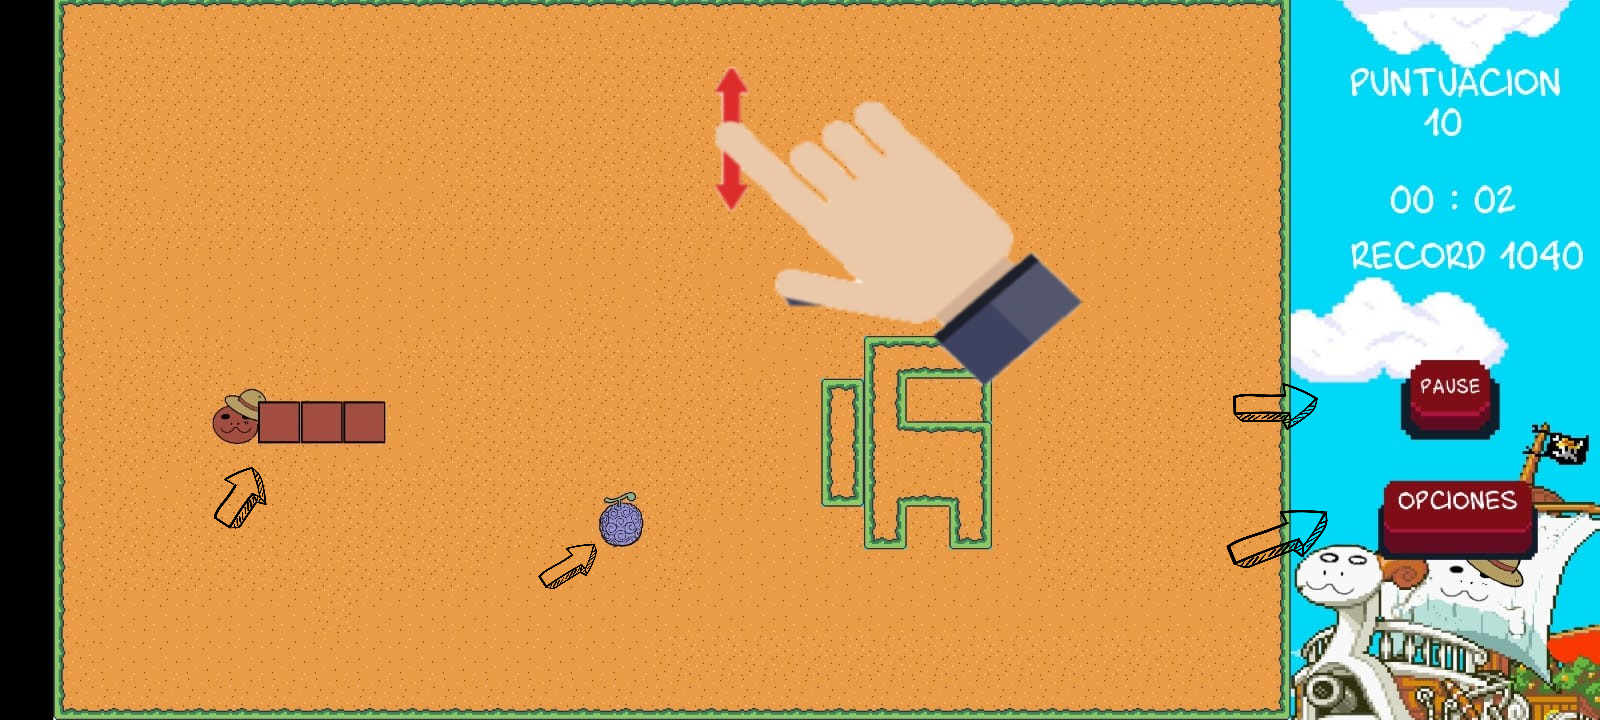
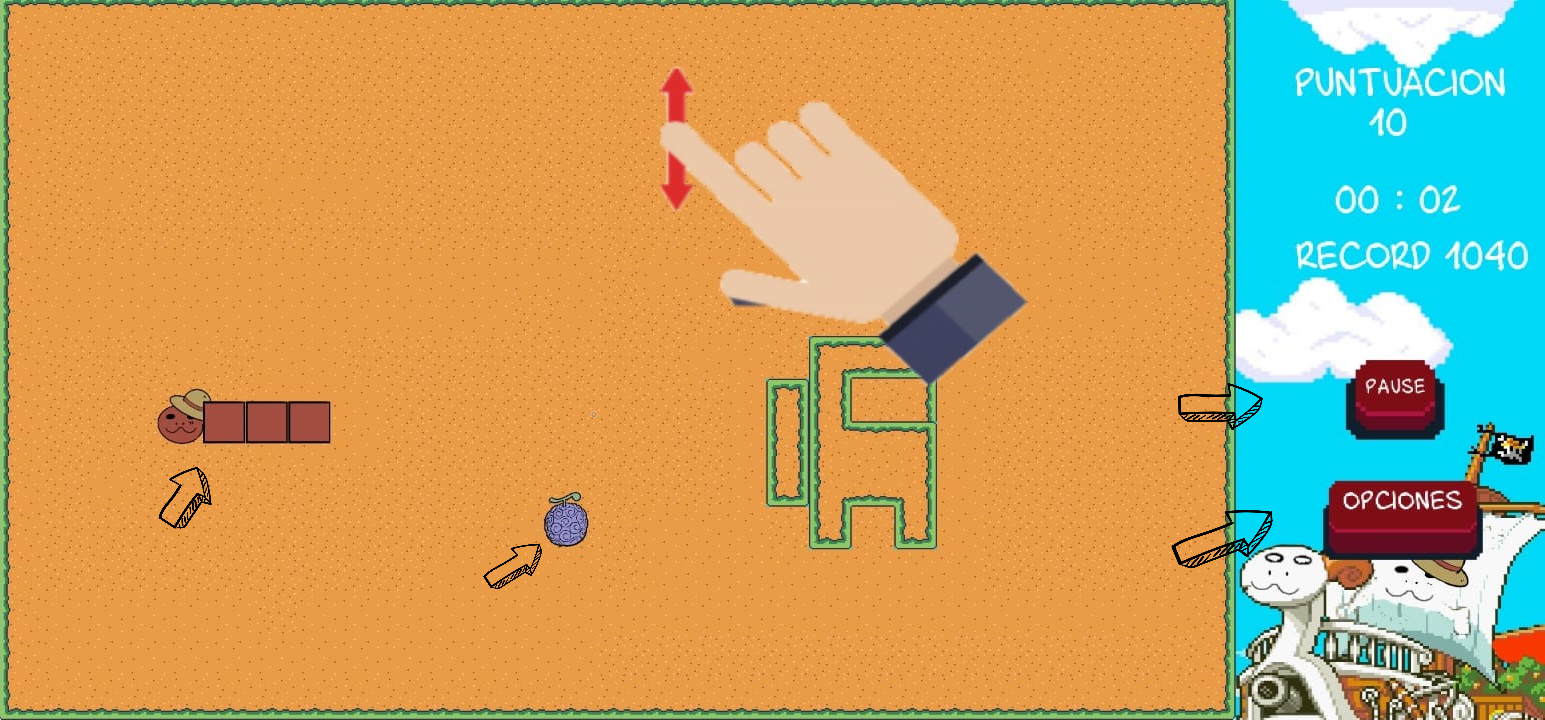
TAMAÑOS ARREGLADO

diff --git a/core/src/Juego/moviles/Jueuito/Screens/MyGdxGame.java b/core/src/Juego/moviles/Jueuito/Screens/MyGdxGame.java
@@ -1,6 +1,8 @@
 package Juego.moviles.Jueuito.Screens;
 
 
+import static Juego.moviles.Jueuito.Constantes.*;
+
 import com.badlogic.gdx.Gdx;
 import com.badlogic.gdx.Input;
 import com.badlogic.gdx.InputMultiplexer;
@@ -103,7 +105,7 @@ public class MyGdxGame implements Screen {
      * para gestionar el movimiento
      */
     boolean crear = false, colision = true;
-    Mapa mapa;
+//    Mapa mapa;
     /**
      * texturas de la serpiente
      */
@@ -153,7 +155,7 @@ public class MyGdxGame implements Screen {
     /**
      * referencia al fondo de pantalla
      */
-    Image fondo;
+    Image fondo, mapa;
 
     /**
      * contructor de la Screen del juego crea e inicializa lo que se ve en pantalla
@@ -168,13 +170,11 @@ public class MyGdxGame implements Screen {
         imagenCabeza = new Texture(Gdx.files.internal("Serpiente/cabeza.png"));
         imagenCuerpo = new Texture(Gdx.files.internal("Serpiente/cuerpo.png"));
 
-        float x = Gdx.graphics.getWidth();
-        float y = Gdx.graphics.getHeight();
 
         camera = new OrthographicCamera();
-        camera.setToOrtho(false, x / 2, y / 2);
+        camera.setToOrtho(false, WORLD_WIDTH, WORLD_HEIGHT);
 
-        v = new ExtendViewport(x / 2, y / 2, camera);
+        v = new ExtendViewport(WORLD_WIDTH, WORLD_HEIGHT, camera);
         stage = new Stage(v);
         world = new World(new Vector2(0, 0), false);
         b2dr = new Box2DDebugRenderer();
@@ -183,12 +183,13 @@ public class MyGdxGame implements Screen {
         skin.add("btnPause", new Texture(Gdx.files.internal("Buttons/BtnPeque.png")));
         skin.add("btnPlay", new Texture(Gdx.files.internal("Buttons/BtnGrande.png")));
         skin.add("Fondo", new Texture(Gdx.files.internal("Fondo/Fondo.png")));
-        fondo = UICrea.createImage(new Vector2(0,0), x /2,y/2,skin,"Fondo",stage);
+        skin.add("Mapa", new Texture(Gdx.files.internal("Fondo/mapa.png")));
 
-        btn = UICrea.createTextButton("Pause", 15, new Vector2(x / 2 - 150, y / 6 + 30), 75, 60, skin, "btnPause", stage, 20);
-        TiledMap tiledMap = new TmxMapLoader().load("Mapa.tmx");
-        tmr = new OrthogonalTiledMapRenderer(tiledMap);
-        mapa = new Mapa(world, tiledMap.getLayers().get("Colisiones").getObjects());
+        fondo = UICrea.createImage(new Vector2(0,0), WORLD_WIDTH, WORLD_HEIGHT,skin,"Fondo",stage);
+        mapa=UICrea.createImage(new Vector2(0,0), WORLD_WIDTH*0.8f, WORLD_HEIGHT,skin,"Mapa",stage);
+
+        btn = UICrea.createTextButton("Pause", 15, new Vector2(WORLD_WIDTH*0.85f,  WORLD_HEIGHT*0.4f), 75, 60, skin, "btnPause", stage, 20);
+
 
         player = new Serpiente(32, 32, 525, 225, world, false);
         cuerpos.add(player);
@@ -202,12 +203,12 @@ public class MyGdxGame implements Screen {
         time = System.currentTimeMillis();
 
 
-        UICrea.createLabel(lang.get("main.score"), 30, Color.WHITE, new Vector2(x / 3 + 200, y / 3 + 100), stage);
-        labelPuntuacion = UICrea.createLabel("0", 30, Color.WHITE, new Vector2(x / 3 + 255, y / 3 + 70), stage);
-        labelTiempo = UICrea.createLabel("", 30, Color.WHITE, new Vector2(x / 3 + 230, y / 3 + 30), stage);
+        UICrea.createLabel(lang.get("main.score"), 25, Color.WHITE, new Vector2(WORLD_WIDTH*0.81f,  WORLD_HEIGHT*0.80f), stage);
+        labelPuntuacion = UICrea.createLabel("0", 25, Color.WHITE, new Vector2(WORLD_WIDTH*0.89f,  WORLD_HEIGHT*0.75f), stage);
+        labelTiempo = UICrea.createLabel("", 25, Color.WHITE, new Vector2(WORLD_WIDTH*0.85f,  WORLD_HEIGHT*0.73f), stage);
 
 
-        labelRecord = UICrea.createLabel(String.format("Record %d", record.getInteger("HighScore")), 30, Color.WHITE, new Vector2(x / 3 + 200, y / 3 - 30), stage);
+        labelRecord = UICrea.createLabel(String.format("Record %d", record.getInteger("HighScore")), 25, Color.WHITE, new Vector2(WORLD_WIDTH*0.81f,  WORLD_HEIGHT*0.61f), stage);
 
         /**
          * Listener del boton pause
@@ -235,7 +236,7 @@ public class MyGdxGame implements Screen {
         /**
          * Listener del boton opciones
          */
-        btnOptions = UICrea.createTextButton(lang.get("mainmenu.settings"),20, new Vector2(x / 3+220, y / 9),120,60,skin,"btnPlay", stage, 30);
+        btnOptions = UICrea.createTextButton(lang.get("mainmenu.settings"),20, new Vector2(WORLD_WIDTH*0.82f, WORLD_HEIGHT*0.2f),120,60,skin,"btnPlay", stage, 30);
         btnOptions.addListener(new InputListener(){
 
             @Override
@@ -269,7 +270,6 @@ public class MyGdxGame implements Screen {
         stage.act(Gdx.graphics.getDeltaTime());
         stage.draw();
 
-        tmr.render();
         labelPuntuacion.setText((cuerpos.size() - 3) * 10 + "");
         segundos = (System.currentTimeMillis() - time) / 1000;
         labelTiempo.setText(String.format("%02.0f : %02.0f", (float) (segundos / 60), (float) (segundos % 60)));
@@ -301,7 +301,8 @@ public class MyGdxGame implements Screen {
 
     @Override
     public void resize(int width, int height) {
-        camera.setToOrtho(false, width / 2, height / 2);
+       v.update(width,height);
+       stage.getViewport().update(width,height);
 
     }
 
@@ -336,9 +337,6 @@ public class MyGdxGame implements Screen {
     public void update(float delta) {
         world.step(1 / 60f, 6, 2);
         cameraUpdate();
-
-        tmr.setView(camera);
-        tmr.render();
 
         if (!hit) {
 
@@ -524,11 +522,11 @@ public class MyGdxGame implements Screen {
     public void compruebaCabeza() {
         Serpiente cabeza = cuerpos.get(0);
 
-        if (cabeza.getPosicionX() > Gdx.graphics.getWidth() / 2 - 250) {
+        if (cabeza.getPosicionX() > (Gdx.graphics.getWidth() / 2)*0.78f) {
             cabeza.mover(30, cabeza.getPosicionY());
         } else {
             if (cabeza.getPosicionX() < 10) {
-                cabeza.mover(Gdx.graphics.getWidth() / 2 - 250, cabeza.getPosicionY());
+                cabeza.mover(  (Gdx.graphics.getWidth() / 2)*0.78f, cabeza.getPosicionY());
             }
         }
 
@@ -554,8 +552,8 @@ public class MyGdxGame implements Screen {
         float x;
         float y;
         do {
-            x = (float) (Math.random() * 870) + 35;
-            y = (float) (Math.random() * 480) + 35;
+            x = (float) (Math.random() * WORLD_WIDTH*0.78f) + 35;
+            y = (float) (Math.random() * WORLD_HEIGHT) + 35;
 
         } while (comprueba(x, y));
 

diff --git a/core/src/Juego/moviles/Jueuito/Screens/Opciones.java b/core/src/Juego/moviles/Jueuito/Screens/Opciones.java
@@ -19,6 +19,8 @@ import com.badlogic.gdx.utils.I18NBundle;
 import com.badlogic.gdx.utils.viewport.ExtendViewport;
 import com.badlogic.gdx.utils.viewport.Viewport;
 
+import static Juego.moviles.Jueuito.Constantes.*;
+
 import Juego.moviles.Jueuito.MainClass;
 import Juego.moviles.Jueuito.Sonidos;
 import Juego.moviles.Jueuito.UICrea;
@@ -65,6 +67,7 @@ public class Opciones implements Screen {
 
     /**
      * sobrecarga del constructor
+     *
      * @param juego screen del juego
      */
     public Opciones(MyGdxGame juego) {
@@ -75,6 +78,7 @@ public class Opciones implements Screen {
 
     /**
      * sobrecarga del contructor
+     *
      * @param mainClass clase pirncipal
      */
     public Opciones(final MainClass mainClass) {
@@ -94,17 +98,17 @@ public class Opciones implements Screen {
         float h = Gdx.graphics.getHeight();
 
         camera = new OrthographicCamera();
-        camera.setToOrtho(false, w / 2, h / 2);
+        camera.setToOrtho(false, WORLD_WIDTH, WORLD_HEIGHT);
 
-        v = new ExtendViewport(w / 2, h / 2, camera);
+        v = new ExtendViewport(WORLD_WIDTH, WORLD_HEIGHT, camera);
         stage = new Stage(v);
 
         skin.add("btnPlay", new Texture(Gdx.files.internal("Buttons/BtnGrande.png")));
         skin.add("btnPeque", new Texture(Gdx.files.internal("Buttons/BtnPeque.png")));
         skin.add("Fondo", new Texture(Gdx.files.internal("Fondo/Fondo.png")));
 
-        Image fondo = UICrea.createImage(new Vector2(0, 0), w / 2, h / 2, skin, "Fondo", stage);
-        btnAtras = UICrea.createTextButton(lang.get("setting.back"), 25, new Vector2(w / 3 + 250, h / 3 + 80), 100, 70, skin, "btnPlay", stage, 30);
+        Image fondo = UICrea.createImage(new Vector2(0, 0), WORLD_WIDTH, WORLD_HEIGHT, skin, "Fondo", stage);
+        btnAtras = UICrea.createTextButton(lang.get("setting.back"), 25, new Vector2(WORLD_WIDTH*0.9f, WORLD_HEIGHT*0.8f), 100, 70, skin, "btnPlay", stage, 30);
 
         btnAtras.addListener(new InputListener() {
 
@@ -145,7 +149,7 @@ public class Opciones implements Screen {
 
         });
 
-        btnMainMenu = UICrea.createTextButton(lang.get("setting.menu"), 25, new Vector2(w / 3 + 250, h / 3), 100, 70, skin, "btnPlay", stage, 35);
+        btnMainMenu = UICrea.createTextButton(lang.get("setting.menu"), 25, new Vector2(WORLD_WIDTH*0.9f, WORLD_HEIGHT*0.65f), 100, 70, skin, "btnPlay", stage, 35);
         btnMainMenu.addListener(new InputListener() {
             @Override
             public boolean touchDown(InputEvent event, float x, float y, int pointer, int button) {
@@ -158,7 +162,7 @@ public class Opciones implements Screen {
             public void touchUp(InputEvent event, float x, float y, int pointer, int button) {
 
 
-                    mainClass.setScreen(new MainMenu(mainClass));
+                mainClass.setScreen(new MainMenu(mainClass));
             }
         });
 
@@ -212,6 +216,7 @@ public class Opciones implements Screen {
 
     /**
      * Metodo de renderizado
+     *
      * @param delta The time in seconds since the last render.
      */
     @Override
@@ -243,7 +248,8 @@ public class Opciones implements Screen {
 
     @Override
     public void resize(int width, int height) {
-
+        v.update(width, height);
+        stage.getViewport().update(width, height);
     }
 
     @Override

diff --git a/core/src/Juego/moviles/Jueuito/Screens/Help.java b/core/src/Juego/moviles/Jueuito/Screens/Help.java
@@ -1,5 +1,8 @@
 package Juego.moviles.Jueuito.Screens;
 
+import static Juego.moviles.Jueuito.Constantes.WORLD_HEIGHT;
+import static Juego.moviles.Jueuito.Constantes.WORLD_WIDTH;
+
 import com.badlogic.gdx.Gdx;
 import com.badlogic.gdx.Screen;
 import com.badlogic.gdx.graphics.Color;
@@ -70,13 +73,10 @@ public class Help implements Screen {
     public Help(final MainClass mainClass) {
         this.mainClass = mainClass;
 
-        float w = Gdx.graphics.getWidth();
-        float h = Gdx.graphics.getHeight();
-
         camera = new OrthographicCamera();
-        camera.setToOrtho(false, w / 2, h / 2);
+        camera.setToOrtho(false, WORLD_WIDTH, WORLD_HEIGHT);
 
-        v = new ExtendViewport(w / 2, h / 2, camera);
+        v = new ExtendViewport(WORLD_WIDTH, WORLD_HEIGHT, camera);
         stage = new Stage(v);
 
 
@@ -84,9 +84,9 @@ public class Help implements Screen {
         skin.add("btnPeque", new Texture(Gdx.files.internal("Buttons/BtnPeque.png")));
         skin.add("Fondo", new Texture(Gdx.files.internal("Fondo/fondoayuda.png")));
 
-        fondo = UICrea.createImage(new Vector2(0,0),w/2,h/2,skin,"Fondo",stage);
+        fondo = UICrea.createImage(new Vector2(0,0),WORLD_WIDTH, WORLD_HEIGHT,skin,"Fondo",stage);
 
-        btnAtras = UICrea.createTextButton(lang.get("setting.back"), 25, new Vector2(w / 3 + 250, h / 3 + 80), 100, 70, skin, "btnPlay", stage, 30);
+        btnAtras = UICrea.createTextButton(lang.get("setting.back"), 25, new Vector2(WORLD_WIDTH*0.9f, WORLD_HEIGHT*0.8f), 100, 70, skin, "btnPlay", stage, 30);
 
         btnAtras.addListener(new InputListener() {
 
@@ -102,8 +102,8 @@ public class Help implements Screen {
             }
         });
 
-        lblMano = UICrea.createLabel(lang.get("help.hand"),20, Color.BLACK,new Vector2(w/6+20,h/2-70),stage);
-        lblExplicacion = UICrea.createLabel(lang.get("help.opjetive"),20, Color.BLACK,new Vector2(w/9-200,h/2-220),stage);
+        lblMano = UICrea.createLabel(lang.get("help.hand"),20, Color.BLACK,new Vector2(WORLD_WIDTH*0.3f,WORLD_HEIGHT*0.85f),stage);
+        lblExplicacion = UICrea.createLabel(lang.get("help.opjetive"),20, Color.BLACK,new Vector2(WORLD_WIDTH*0.03f,WORLD_HEIGHT*0.5f),stage);
 
 
     }

diff --git a/core/src/Juego/moviles/Jueuito/Constantes.java b/core/src/Juego/moviles/Jueuito/Constantes.java
@@ -7,6 +7,10 @@ import java.util.Vector;
 
 public class Constantes {
 
+    public static final float WORLD_HEIGHT = 480;
+    public static final float PPU = Gdx.graphics.getHeight() / WORLD_HEIGHT;
+    public static final float WORLD_WIDTH = Gdx.graphics.getWidth() / PPU;
+
     /**
      * Enumerado con la direccion en vector de la serpiente
      */

diff --git a/core/src/Juego/moviles/Jueuito/MainClass.java b/core/src/Juego/moviles/Jueuito/MainClass.java
@@ -21,7 +21,7 @@ public class MainClass extends Game {
     public void create() {
         setScreen(new MainMenu(this));
         music = Gdx.audio.newMusic(Gdx.files.internal("Sonidos/song.mp3"));
-        music.setVolume(Sonidos.volumen);
+        music.setVolume(Sonidos.volumen-0.2f);
         music.setLooping(true);
         music.play();
     }

diff --git a/core/src/Juego/moviles/Jueuito/Sonidos.java b/core/src/Juego/moviles/Jueuito/Sonidos.java
@@ -17,7 +17,7 @@ public class Sonidos{
      * @param loop si se repite o no el sonido
      */
     public void play(boolean loop){
-        long id = sound.play(volumen);
+        long id = sound.play(volumen+0.1f);
         sound.setLooping(id,loop);
     }
 }
